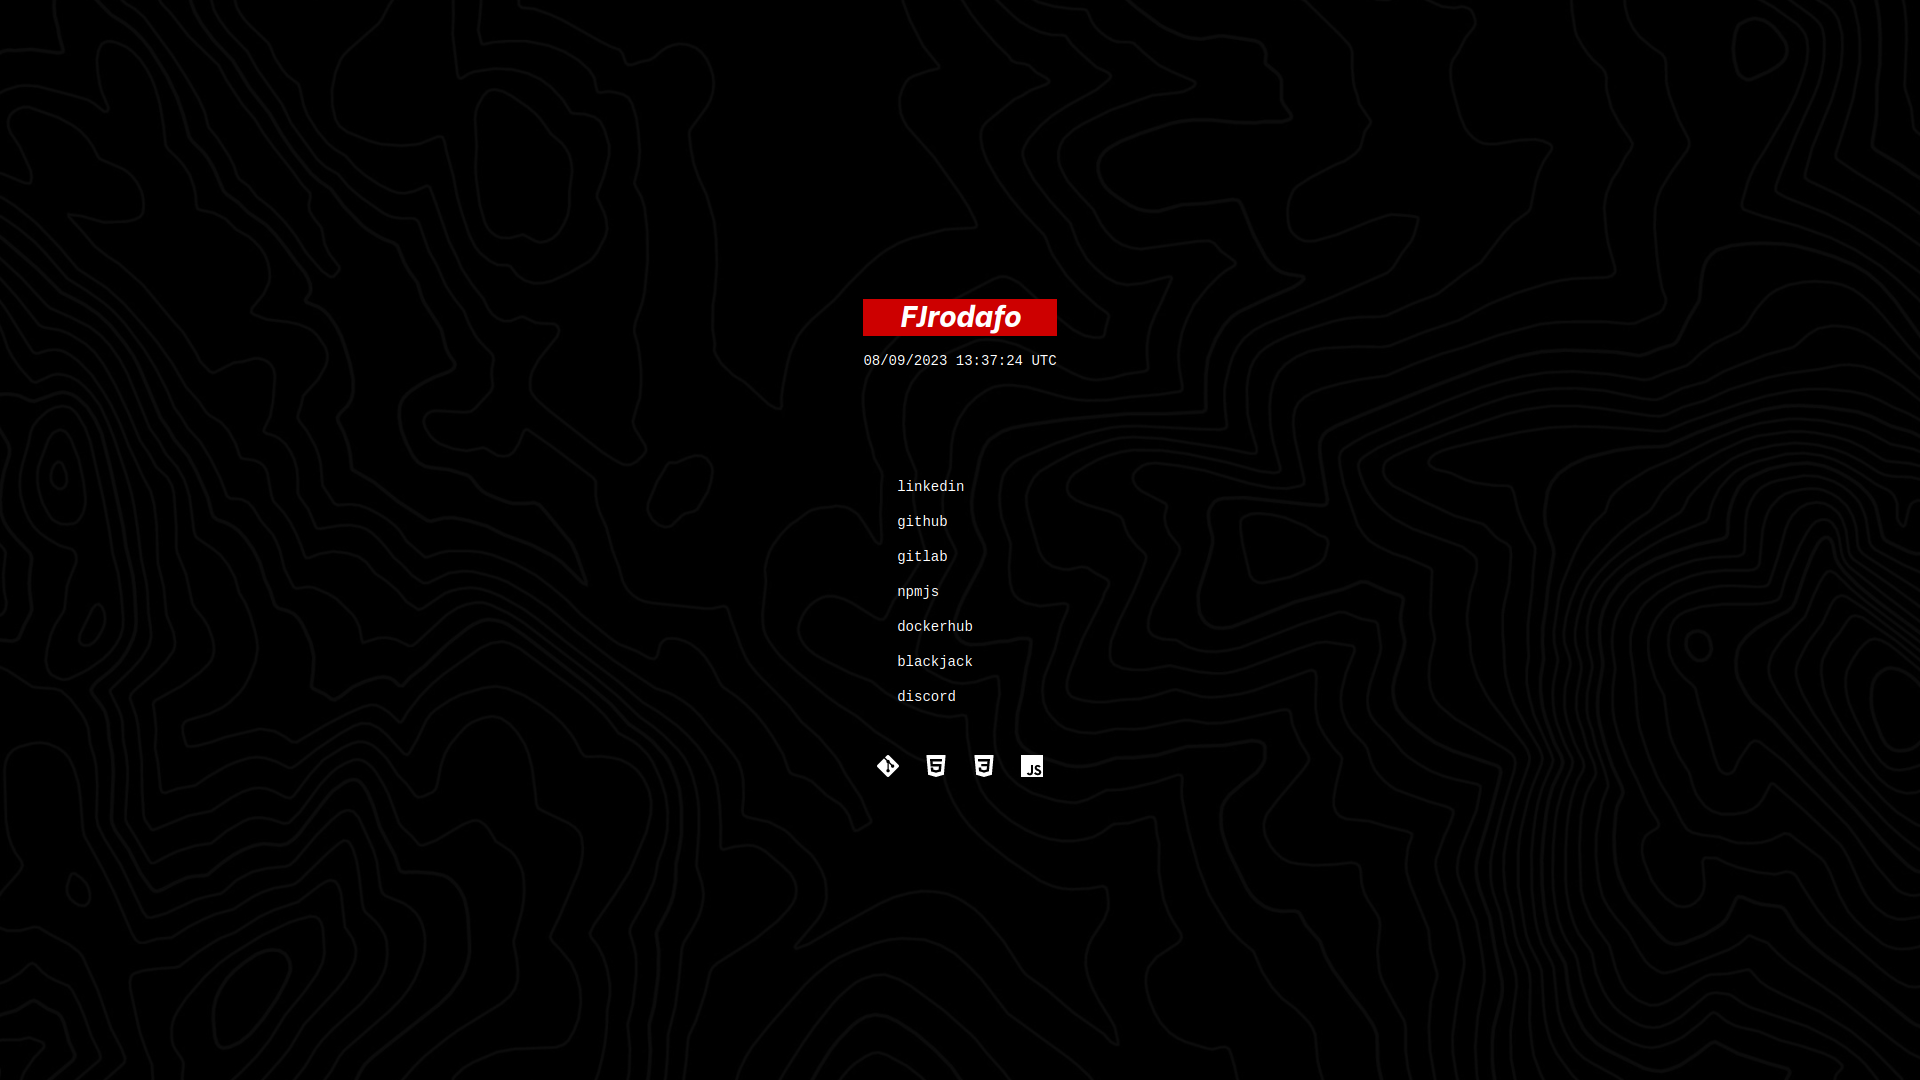
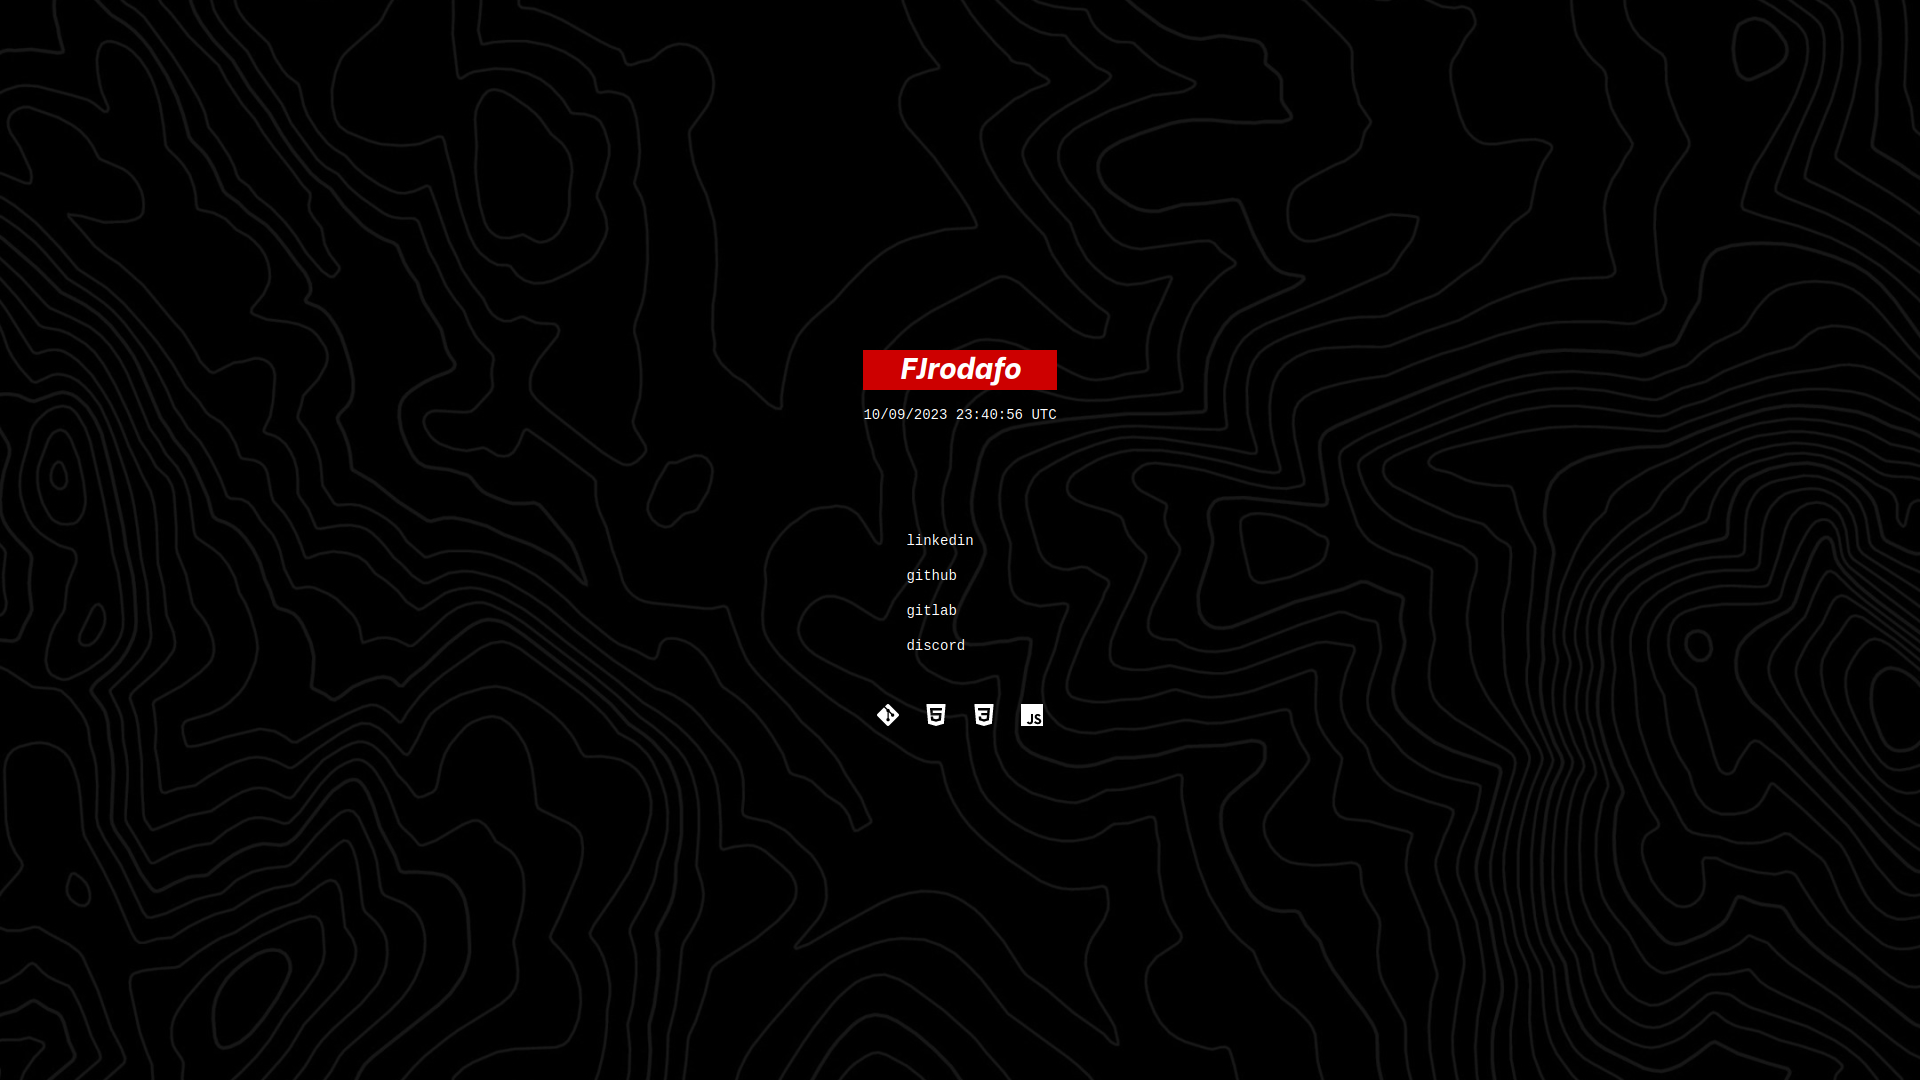
v29

Changed region(s): [[0.4375, 0.275, 0.5625, 0.3972], [0.4375, 0.4278, 0.5625, 0.6722], [0.4375, 0.7028, 0.5625, 0.7333]]

diff --git a/index.html b/index.html
@@ -5,7 +5,7 @@
     <meta charset="UTF-8">
     <meta name="author" content="Francisco José Rodríguez Afonso">
     <meta name="description" content="Portfolio where my links are located!">
-    <meta name="keywords" content="fjrodafo, portfolio, date, clock, utc, linkedin, github, gitlab, node, nodejs, npm, npmjs, dockerhub, discord, git, html, css, javascript">
+    <meta name="keywords" content="fjrodafo, portfolio, date, clock, utc, linkedin, github, gitlab, discord, git, html, css, javascript">
     <meta name="viewport" content="width=device-width, initial-scale=1.0">
     <title>FJrodafo</title>
     <link rel="icon" type="image/png" href="./Assets/Icon.png">
@@ -21,7 +21,7 @@
             <div id="date-clock">
                 <script src="./script.js"></script>
                 <noscript>
-                    <p>You need to enable JavaScript!</p>
+                    <p>JavaScript required!</p>
                 </noscript>
             </div>
             <div id="nav">
@@ -49,10 +49,10 @@
                             <img src="./Assets/Git.svg">
                         </li>
                         <li>
-                            <img src="./Assets/HTML5.svg">
+                            <img src="./Assets/HTML.svg">
                         </li>
                         <li>
-                            <img src="./Assets/CSS3.svg">
+                            <img src="./Assets/CSS.svg">
                         </li>
                         <li>
                             <img src="./Assets/JavaScript.svg">

diff --git a/style.css b/style.css
@@ -20,12 +20,11 @@ body {
     align-items: center;
     justify-content: center;
 
-    background-color: rgba(0, 0, 0, 0.4);
+    background-color: rgba(0, 0, 0, 0.7);
 }
 
 #logo {
     height: 40px;
-    width: 200px;
 
     display: flex;
     align-items: center;
